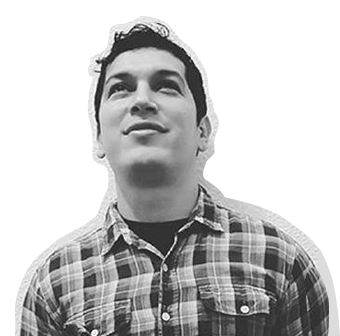
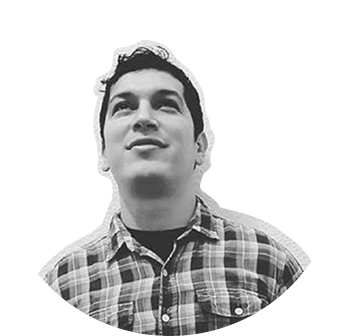
Home Done, Services Page Done mobile and Desktop

diff --git a/app/servicesPage/page.tsx b/app/servicesPage/page.tsx
@@ -1,8 +1,73 @@
+"use client";
+
+import { motion } from "framer-motion";
+import Link from "next/link";
+import { BsArrowDownRight } from "react-icons/bs";
+
+
+const servicesData =[
+    {
+        num: 1,
+        title: "Smart Contract Development",
+        description: "Design and implement secure and efficient smart contracts for various blockchain platforms.",
+        href: "/services/smart-contract-development"
+    },
+    {
+        num: 2,
+        title: "UI Development",
+        description: "Design and implement user interfaces that are intuitive and user-friendly.",
+        href: "/services/ui-development"
+    },
+    {
+        num: 3,
+        title: "Blockchain Integration",
+        description: "Integrate blockchain technology into existing applications for enhanced security and transparency.",
+        href: "/services/blockchain-integration"
+    },
+    {
+        num: 4,
+        title: "Web Development",
+        description: "Design and implement secure and efficient web applications using modern frameworks and technologies.",
+        href: "/services/web-development"
+    },
+
+]
+
 const ServicesPage = () => {
     return (
-        <div>
-            <h1>Services Page</h1>
-        </div>
+        <section className="min-h-[80vh] flex flex-col justify-center py-12 xl:py-0">
+            <div className="container mx-auto">
+                <motion.div 
+                    initial={{ opacity: 0}}
+                    animate={{ opacity: 1, transition: { delay:2.4, duration: 0.4, ease: "easeIn" } }}
+                    className="grid grid-cols-1 md:grid-cols-2 gap-[60px]">
+                    {servicesData.map((service, index) => {
+                        return (
+                            <div key={index} 
+                                className="flex-1 flex flex-col justify-center gap-6 group">
+
+                                {/* top */}
+                                <div className="w-full flex justify-between items-center">
+                                    <div className="text-5xl font-extrabold text-white group-hover:text-[#00ff99] transition-all duration-500">{service.num}</div>
+                                    <Link href={service.href} 
+                                    className="w-[70px] h-[70px] rounded-full bg-white hover:bg-[#00ff99] transition-all duration-500 flex items-center justify-center hover:-rotate-45" >
+                                        <BsArrowDownRight className="text-primary text-xl"></BsArrowDownRight>
+                                    </Link>
+                                </div>
+                                {/* title */}
+                                <h2 className="text-5xl font-extrabold text-white group-hover:text-[#00ff99] transition-all duration-500">{service.title}</h2>
+
+                                {/* description */}
+                                <p className="text-white/60">{service.description}</p> 
+
+                                {/* border */}
+                                <div className="border-b border-white/20 w-full"></div>
+                            </div>
+                        );
+                    })}
+                </motion.div>
+            </div>
+        </section>
     );
 }
 

diff --git a/components/photo.tsx b/components/photo.tsx
@@ -15,10 +15,10 @@ const Photo = () => {
   if (!isMounted) {
     return (
       <div className="relative w-full h-full flex justify-center items-center">
-        <div className="relative">
+        <div className="relative flex justify-center items-center">
           {/* Círculo estático para el estado no montado */}
           <svg
-            className="absolute inset-0 w-[320px] h-[320px] xl:w-[520px] xl:h-[520px]"
+            className="absolute top-1/2 left-1/2 transform -translate-x-1/2 -translate-y-1/2 w-[320px] h-[320px] xl:w-[520px] xl:h-[520px]"
             viewBox="0 0 520 520"
           >
             <circle
@@ -34,13 +34,13 @@ const Photo = () => {
           </svg>
           
           {/* Imagen */}
-          <div className="w-[298px] h-[298px] xl:w-[498px] xl:h-[498px] mixed-blend-lighten relative z-10">
+          <div className="w-[298px] h-[298px] xl:w-[498px] xl:h-[498px] relative z-10 flex justify-center items-center">
             <Image
               src="/assets/alejandro.png"
               alt="Home Developer Photo"
               width={498}
               height={498}
-              className="object-contain"
+              className="object-contain w-full h-full"
               priority 
               quality={100}
             />
@@ -52,10 +52,10 @@ const Photo = () => {
 
   return (
     <div className="relative w-full h-full flex justify-center items-center">
-        <motion.div className="relative">
+        <motion.div className="relative flex justify-center items-center">
             {/* Círculo animado con borde discontinuo */}
             <motion.svg
-              className="absolute inset-0 w-[320px] h-[320px] xl:w-[520px] xl:h-[520px]"
+              className="absolute top-1/2 left-1/2 transform -translate-x-1/2 -translate-y-1/2 w-[320px] h-[320px] xl:w-[520px] xl:h-[520px]"
               viewBox="0 0 520 520"
               initial={{ rotate: 0 }}
               animate={{ rotate: 360 }}
@@ -103,13 +103,13 @@ const Photo = () => {
             </motion.svg>
             
             {/* Imagen */}
-            <div className="w-[298px] h-[298px] xl:w-[498px] xl:h-[498px] mixed-blend-lighten relative z-10">
+            <div className="w-[298px] h-[298px] xl:w-[498px] xl:h-[498px] relative z-10 flex justify-center items-center">
                 <Image
                     src="/assets/alejandro.png"
                     alt="Home Developer Photo"
                     width={498}
                     height={498}
-                    className="object-contain"
+                    className="object-contain w-full h-full"
                     priority 
                     quality={100}
                 />

diff --git a/app/page.tsx b/app/page.tsx
@@ -1,13 +1,14 @@
 import Photo from "@/components/photo";
 import Social from "@/components/social";
+import Stats from "@/components/stats";
 import { Button } from "@/components/ui/button";
 import { FiDownload } from "react-icons/fi";
 
 
 const Home = () => {
   return (
-    <section className="h-full">
-      <div className="container mx-auto h-full">
+    <section className="h-full -mt-10">
+      <div className="container mx-auto pt-0">
         <div className="flex flex-col xl:flex-row items-center justify-between xl:pt-8 xl:pb-24 ">
           {/* text */}
           <div className="text-center xl:text-left order-2 xl:order-none">
@@ -17,8 +18,8 @@ const Home = () => {
               <span className="h1 text-accent">Alejandro A.</span>
             </div>
             <p className="max-w-[400px] mb-9 mt-6 text-white/80">
-              I&apos;m a passionate blockchain developer with expertise in
-              building decentralized applications and smart contracts.
+              Crafting innovative solutions through decentralized applications 
+              and smart contracts for the Web3 ecosystem.
             </p>
             <div className="flex flex-col xl:flex-row items-center gap-8">
               <Button variant="outline" size="lg" className="uppercase flex items-center gap-2 bg-transparent border-[#00ff99] text-[#00ff99] hover:bg-[#00ff99] hover:text-black cursor-pointer">
@@ -36,6 +37,8 @@ const Home = () => {
           </div>
         </div>
       </div>
+      {/* stats */}
+      <Stats />
     </section>
   );
 };

diff --git a/components/stats.tsx b/components/stats.tsx
@@ -1,0 +1,48 @@
+"use client";
+import CountUp from 'react-countup';
+
+const stats=[
+  {
+    num: 60,
+    text: "Repositories on GitHub"
+  },
+  {
+    num: 4,
+    text: "Years of Experience"
+  },
+  {
+    num: 200,
+    text: "Code Commits"
+  },
+  {
+    num: 8,
+    text: "Technologies Mastered"
+  }
+]
+
+const Stats = () => {
+  return (
+    <section className="pt-4 pb-12 xl:pt-0 xl:pb-0">
+      <div className='container mx-auto'>
+        <div className='flex flex-wrap gap-y-6 justify-center xl:justify-between max-w-[80vw] mx-auto xl:max-w-none'>
+          {stats.map((item, index)=>{
+            return (
+              <div 
+                className='flex flex-col gap-2 items-center justify-center xl:flex-row xl:gap-4 xl:justify-start xl:items-start w-[40%] xl:w-auto xl:min-w-[150px]'
+                key={index}>
+                <CountUp 
+                end={item.num} 
+                duration={5}  
+                delay={2} 
+                className='text-4xl xl:text-6xl font-extrabold text-accent'/>
+                <p className={`${item.text.length < 15 ? "max-w-[100px]" : "max-w-[150px]" } leading-snug text-white/80 text-center xl:text-left`}>{item.text}</p>
+              </div>
+            )
+          })}
+        </div>
+      </div>
+    </section>
+  );
+};
+
+export default Stats;

diff --git a/app/layout.tsx b/app/layout.tsx
@@ -34,7 +34,8 @@ export default function RootLayout({
   return (
     <html lang="en">
       <body
-        className={`${geistSans.variable} ${geistMono.variable} ${jetBrainsMono.variable} font-[family-name:var(--font-jetbrains-mono)] bg-primary text-white antialiased`}
+        className={`${geistSans.variable} ${geistMono.variable} ${jetBrainsMono.variable} font-[family-name:var(--font-jetbrains-mono)] bg-primary text-white antialiased overflow-x-hidden`}
+        suppressHydrationWarning={true}
       >
         <Header />
         <StairTransition></StairTransition>
